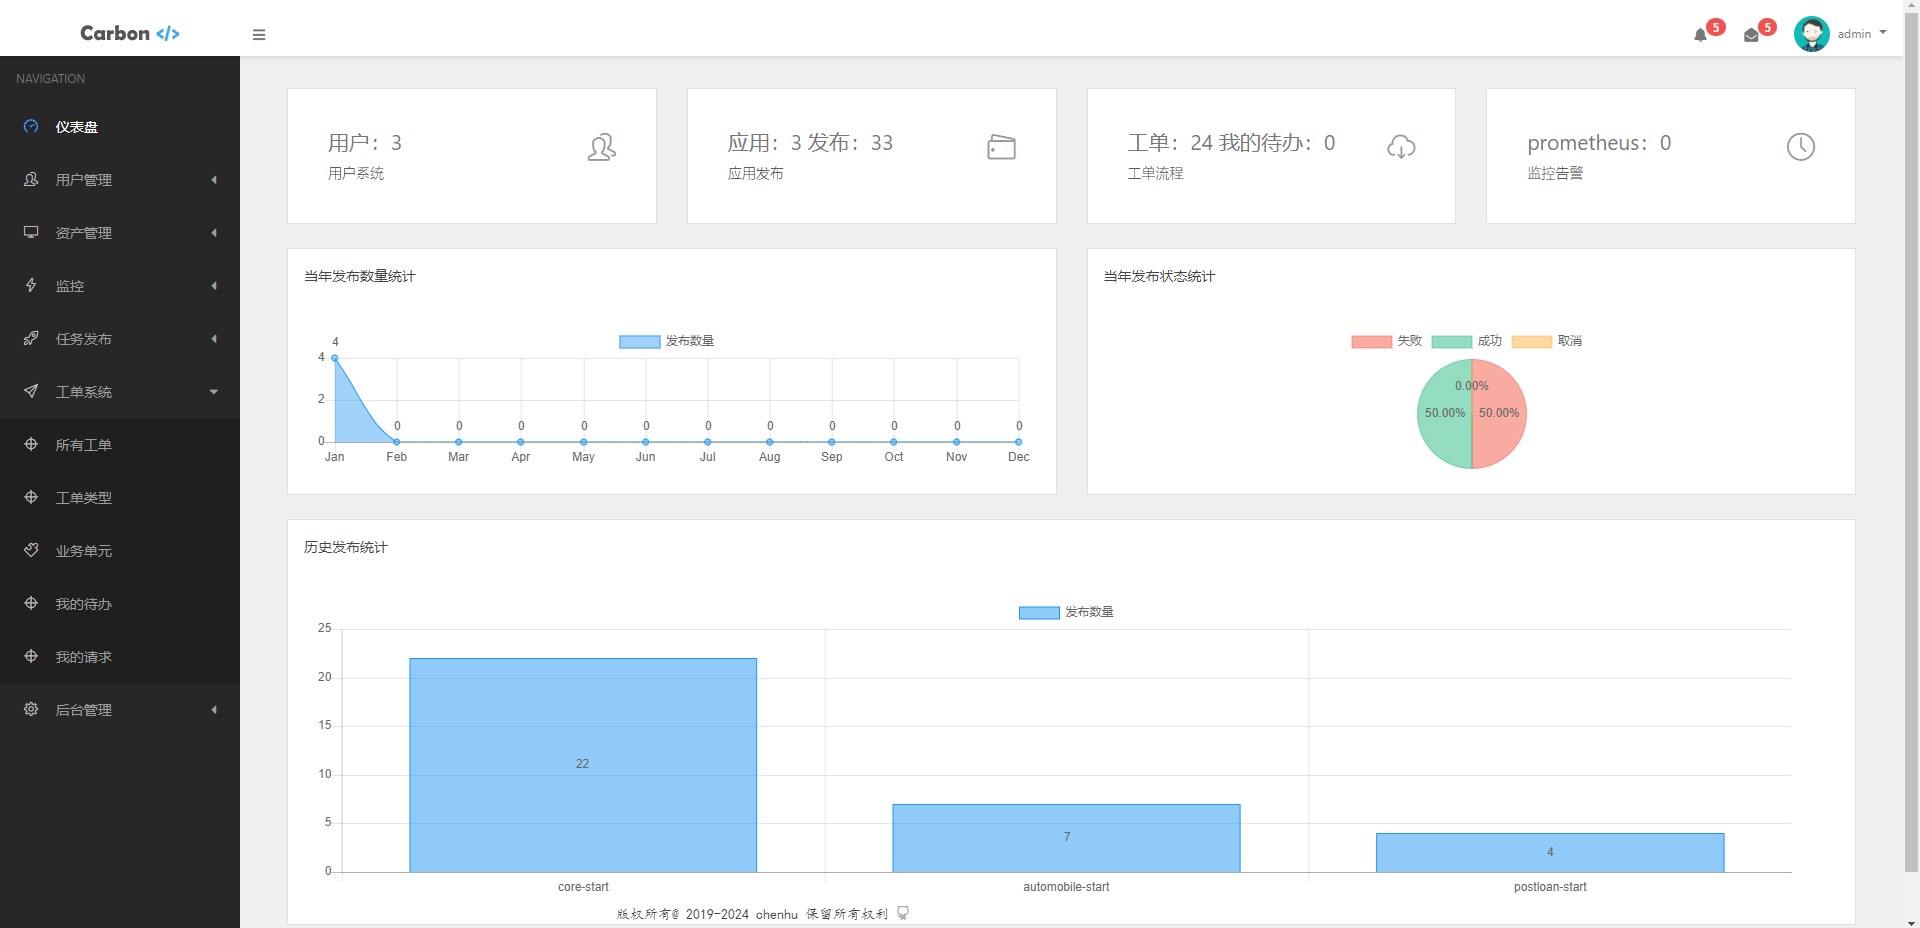
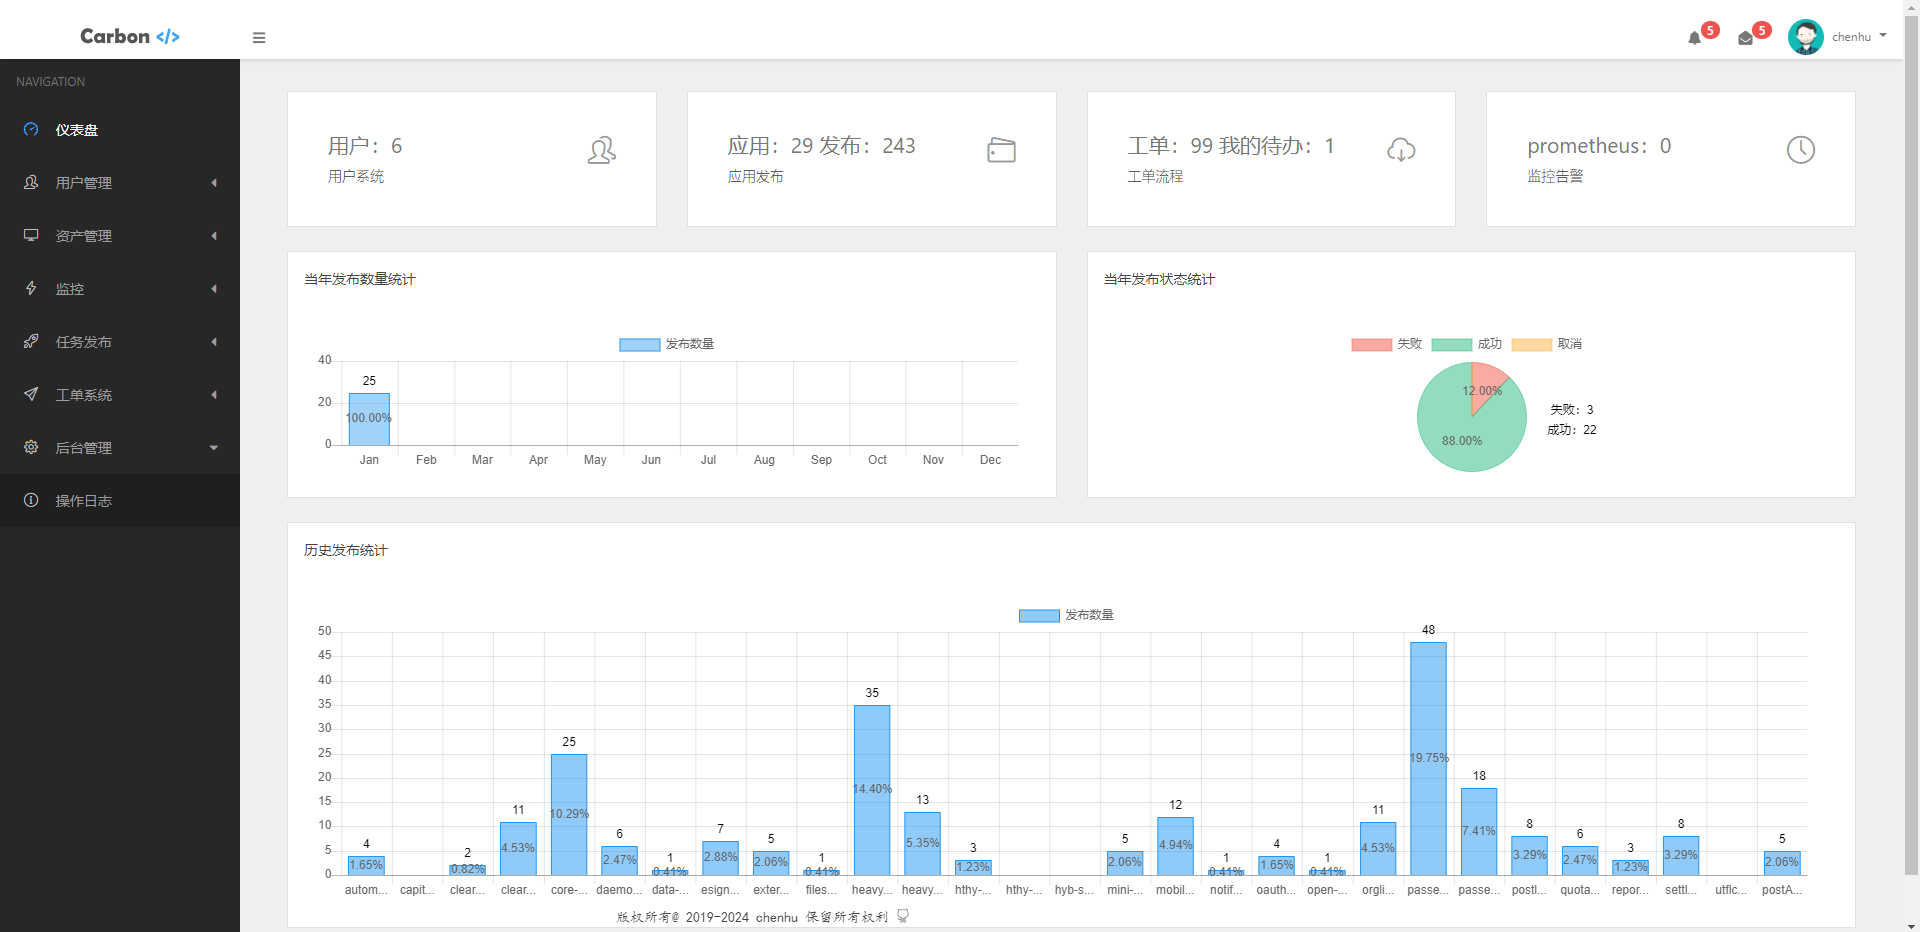
更新dashboard

diff --git a/templates/account/index.html b/templates/account/index.html
@@ -246,7 +246,8 @@ $(document).ready(function () {
 
     if (lineChart.length > 0) {
         new Chart(lineChart, {
-            type: 'line',
+            //type: 'line',
+            type: 'bar',
             data: {
                 labels: ["Jan", "Feb", "Mar", "Apr", "May", "Jun", "Jul", "Aug", "Sep", "Oct", "Nov", "Dec"],
                 datasets: [{
@@ -264,14 +265,37 @@ $(document).ready(function () {
                     //display: false
                     display: true
                 },
+                tooltips: {
+                    /*
+                    displayMode: 'label',
+                    callbacks: {
+                      label: function(tooltipItem, data) {
+                        var label = data.labels[tooltipItem.index];
+                        var keep_len = 5;
+                        if (label.length > keep_len) {
+                          label = label.substring(0, keep_len) + '...';
+                        }
+                        return label;
+                      }
+                    }
+                    */
+                    //mode: 'index',
+                    //displayMode: 'data',
+                    /* 'label'：tooltip 只显示标签文本。
+                        'dataset'：tooltip 显示与数据集相关的信息，如数据集名称、数据点值等。
+                        'data'：tooltip 显示与数据点相关的信息，如数据点的值、标签等。
+                        'x-axis'：tooltip 显示与 x 轴相关的信息，如 x 轴标签、值等。
+                        'y-axis'：tooltip 显示与 y 轴相关的信息，如 y 轴标签、值等。
+                    */
+                    intersect: false, // 确保 tooltip 始终可见，而不管鼠标是否在数据点上
+                },
                 scales: {
                     yAxes: [{
                         ticks: {
                             beginAtZero: true,
                             //display: false,
-                            display: true
-
-                        }
+                            display: true,
+                        },
                     }]
                 },
                 plugins: {
@@ -302,8 +326,11 @@ $(document).ready(function () {
                                 return "";
                                 }
                         },
-                        color: '#fff',  //默认字体颜色黑色，白色背景设置为白色看不到字体
-                        align: 'top', // 设置为 'top' 以将数据标签放置在图形的顶部 （来自百度文心一言）
+                        //color: '#fff',  //默认字体颜色黑色，白色背景设置为白色看不到字体
+                        //align: 'bottom', // 设置为 'top' 以将数据标签放置在图形的顶部 （来自百度文心一言）
+                        //offset: {
+                        //  y: 10, // 设置 y 轴的偏移量，将数据标签向上移动
+                        //}
                     }
                 },
                 ///*  通过插件chartjs-plugin-datalabels@0.7.0实现
@@ -377,9 +404,20 @@ $(document).ready(function () {
             //console.log(data_get);
             //console.log(typeof(data_get));
             //alert(msg);
+            //labels_fmt = [];
+            //keep_len = 5;
             for(i=0;i<labels_get.length;i++){
-                labels.push(labels_get[i]);
-            };
+            /*
+                //检查标签长度，如果超过一定长度则截断并添加省略号
+                  if (labels_get[i].length > keep_len) {
+                    labels_fmt[i] = labels_get[i].substring(0, keep_len) + '...';
+                  } else {
+                    labels_fmt[i] =  labels_get[i]; // 返回原始标签文本
+                  }
+                  labels.push(labels_fmt[i]);
+            */
+                  labels.push(labels_get[i]);
+                };
             for(var i in data_get){
                 data.push(data_get[i]);
             };
@@ -393,7 +431,6 @@ $(document).ready(function () {
             type: 'bar',
             data: {
                 //labels: ["Red", "Blue", "Cyan", "Green", "Purple", "Orange"],
-
                 labels: labels,
                 datasets: [{
                     label: '发布数量',
@@ -424,6 +461,34 @@ $(document).ready(function () {
                 legend: {
                     display: true
                 },
+                tooltips: {
+                    /*
+                    displayMode: 'label',
+                    callbacks: {
+                      label: function(tooltipItem, data) {
+                        var label = data.labels[tooltipItem.index];
+                        var keep_len = 5;
+                        if (label.length > keep_len) {
+                          label = label.substring(0, keep_len) + '...';
+                        }
+                        return label;
+                      }
+                    }
+                    */
+                    mode: 'index',
+                    //displayMode: 'data',
+                    intersect: false, // 确保 tooltip 始终可见，而不管鼠标是否在数据点上
+                    callbacks: {
+                        label: function(tooltipItem, data) {
+                          var value = data.labels[tooltipItem.index];
+                          if (value.length > tooltipItem.width) {
+                            value = value.substring(0, tooltipItem.width) + '...'; // 截断超出部分的文本
+                          }
+                          //console.log(tooltipItem);
+                          return value; // 返回完整的标签文本（或截断后的文本）
+                        }
+                    }
+                },
                 scales: {
                     yAxes: [{
                         ticks: {
@@ -434,7 +499,18 @@ $(document).ready(function () {
                     xAxes: [{
                         ticks: {
                             autoSkip: false, //标签太多自动跳过1个，此参数参考chart.js源码6925行修改，默认true
-                        }
+                            maxRotation: 0, //刻度标签的最大旋转角度为50度,此参数参考chart.js源码6925行
+                            callback: function(value, index, values) {
+                                // 定义截取字符串长度
+                                var keep_len = 5;
+                                // 检查标签长度，如果超过一定长度则截断并添加省略号
+                                if (value.length > keep_len) {
+                                  return value.substring(0, keep_len) + '...'; // 截断标签并添加省略号
+                                } else {
+                                  return value; // 返回原始标签文本
+                                }
+                              }
+                        },
                     }]
                 },
                 plugins: {
@@ -465,7 +541,8 @@ $(document).ready(function () {
                                 return "";
                                 }
                         },
-                        color: '#fff',  //默认字体颜色黑色，白色背景设置为白色看不到字体
+                        //color: '#fff',  //默认字体颜色黑色，白色背景设置为白色看不到字体
+                        //color: '#2ab97f' //绿色
                         //align: 'top', // 设置为 'top' 以将数据标签放置在图形的顶部 （来自百度文心一言）
                     }
                 },
@@ -573,7 +650,7 @@ $(document).ready(function () {
             data_get_success = msg.data_yearly_success;
             data_get_fail = msg.data_yearly_fail;
             data_get_withdraw = msg.data_yearly_withdraw;
-            console.log(data_get_success,data_get_fail,data_get_withdraw);
+            //console.log(data_get_success,data_get_fail,data_get_withdraw);
             //console.log(data_get);
             //console.log(typeof(data_get));
             //alert(msg);
@@ -596,7 +673,7 @@ $(document).ready(function () {
                 //labels: ["Red", "Blue", "Cyan", "Green", "Purple", "Orange"],
                 labels: ["失败", "成功", "取消"],
                 datasets: [{
-                    label: '发布状态',
+                    label: ["失败", "成功", "取消"],
                     data: [data_get_fail, data_get_success, data_get_withdraw],
                     backgroundColor: [
                         'rgba(244, 88, 70, 0.5)',
@@ -614,13 +691,13 @@ $(document).ready(function () {
                         /*'rgba(156, 39, 176, 0.5)',*/
                         'rgba(253, 178, 68, 0.5)'
                     ],
-                    borderWidth: 1
+                    borderWidth: 1,
                 }]
             },
             options: {
                 tooltips: {
                     //enabled: false,
-                    enabled: true   //鼠标放上显示具体数量
+                    enabled: true,   //鼠标放上显示具体数量
                 },
                 plugins: {
                     datalabels: {
@@ -650,10 +727,49 @@ $(document).ready(function () {
                                 return "";
                                 }
                         },
-                        color: '#fff',  //默认字体颜色黑色，白色背景设置为白色看不到字体
+                        //color: '#fff',  //默认字体颜色黑色，白色背景设置为白色看不到字体
                         //align: 'top', // 设置为 'top' 以将数据标签放置在图形的顶部 （来自百度文心一言）
                     }
+                },
+                ///*  通过插件chartjs-plugin-datalabels@0.7.0实现
+                hover: {
+                    animationDuration: 0  // 防止鼠标移上去，数字闪烁
+                },
+                animation: {           // 这部分是数值显示的功能实现
+                      onComplete: function () {
+                            var chartInstance = this.chart,
+                            barChart = chartInstance.ctx;
+                            //console.log(chartInstance);
+                            //console.log(barChart);
+                            // 以下属于canvas的属性（font、fillStyle、textAlign...）
+                            barChart.font = Chart.helpers.fontString(
+                                Chart.defaults.global.defaultFontSize,
+                                Chart.defaults.global.defaultFontStyle,
+                                Chart.defaults.global.defaultFontFamily
+                            );
+                            barChart.fillStyle = "black";
+                            barChart.textAlign = 'center';
+                            barChart.textBaseline = 'bottom';
+                            this.data.datasets.forEach(function (dataset, i) {
+                                var meta = chartInstance.controller.getDatasetMeta(i);
+                                meta.data.forEach(function (bar, index) {
+                                    var data = dataset.data[index];
+                                    var label = dataset.label[index]; // 获取数据集的标签
+                                    //console.log(data, label); // 打印数据和标签
+                                    /* 值为0 不显示数值*/
+                                    if (data > 0){
+                                        barChart.fillText(label + "：" + data, bar._model.x+100, bar._model.y+20*index);
+                                    }
+                                    else{
+                                        barChart.fillText("", bar._model.x, bar._model.y-5);
+                                    };
+
+                                });
+                            });
+                      }
                 }
+                //*/
+
             }
 
         });
